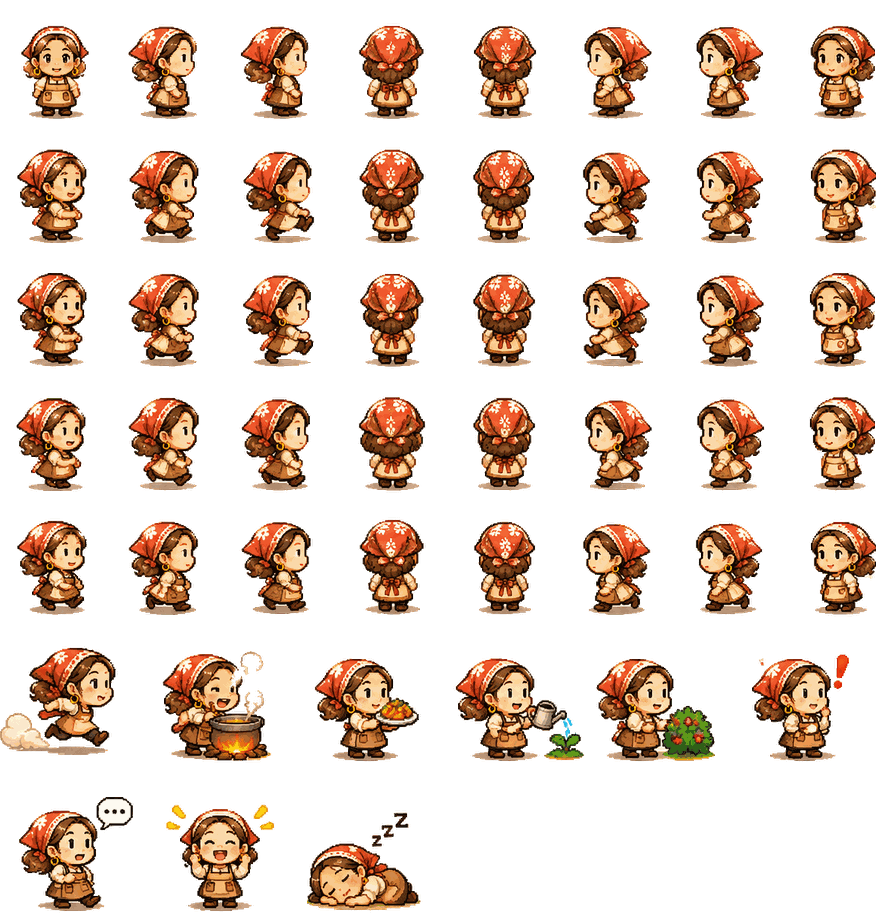
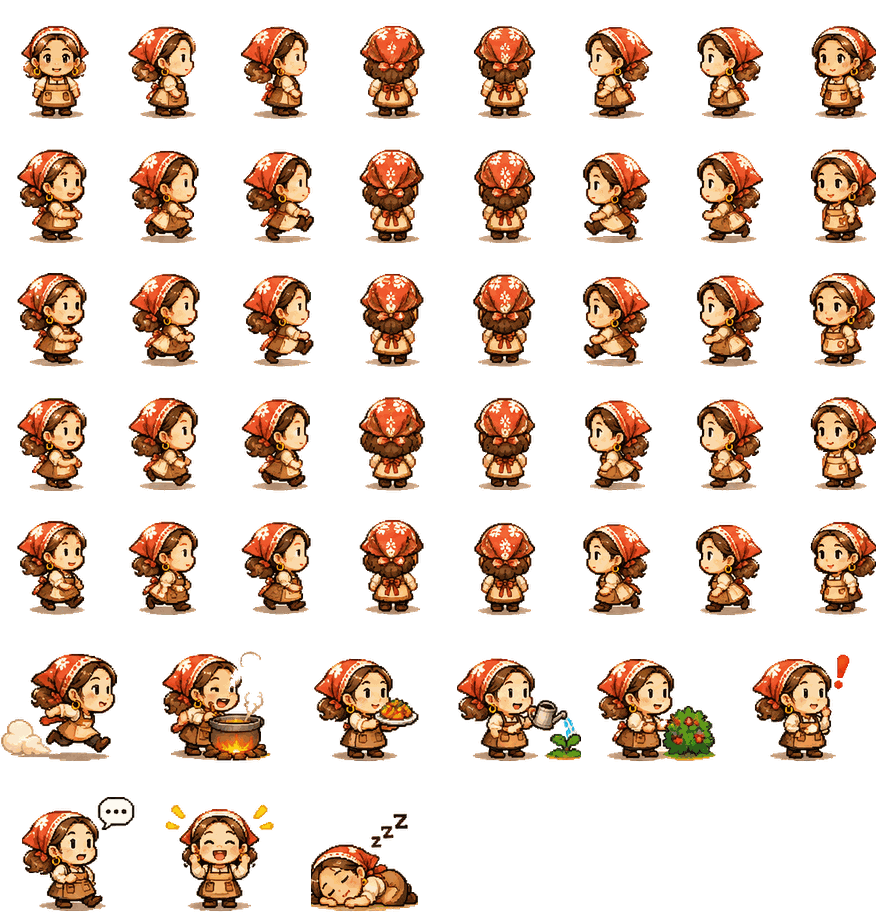
ゲーム: モンスター54種と図鑑、村人6人をドット絵スプライトに
- スライム・イノシシ・キノコ・ドラゴンコウモリは8方向とダメージ/攻撃/驚き
- 図鑑の54種を地域ごとに出現（強い種類はステージとレベルで解放、ボス級はまれ）
- 手帳にモンスター図鑑（倒すと登録、未発見はシルエット）
- ハナばあちゃん・カモメ船長・プクオフ・ハドフ・クズモショ・Archくんをスプライトに、離れているときは祈る/望遠鏡/読書/店番などのポーズ

Claude-Session: https://claude.ai/code/session_01SaHn9ks9dncxXxV33h9duz

diff --git a/game/index.html b/game/index.html
@@ -49,6 +49,7 @@ input,textarea,select{font-size:16px}
 #talk .hint{font-size:13px;color:#8a6a40}
 .sheet{position:fixed;left:0;right:0;bottom:0;max-height:86%;background:var(--paper);border-radius:22px 22px 0 0;padding:18px 16px max(18px,env(safe-area-inset-bottom));box-shadow:0 -8px 30px #0006;transform:translateY(105%);transition:transform .28s ease;overflow-y:auto;max-width:640px;margin:0 auto;z-index:4}
 .sheet.on{transform:none}
+.monbook{display:grid;grid-template-columns:repeat(auto-fill,minmax(66px,1fr));gap:6px;margin-top:6px}.monbook .mb{background:#fff8ea;border:1.5px solid #e2cfa8;border-radius:10px;padding:4px 2px 5px;text-align:center;font-size:10px;line-height:1.25}.monbook i{display:block;width:60px;height:60px;margin:0 auto;background:url(monbook.png?v=1) no-repeat;background-size:540px 360px}.monbook .un i{filter:brightness(0);opacity:.22}.monbook b{display:block;font-weight:700}.monbook small{color:#9a7a50}
 .sheet h2{margin:0 0 4px;font-size:22px;font-weight:900;padding-right:80px}
 .sheet h3{margin:16px 0 6px;font-size:17px}
 .sheet .sub{margin:0 0 12px;font-size:14px;color:#7a6248}
@@ -171,6 +172,7 @@ body.story #talk,body.story #actBtn,body.story #atkBtn,body.story #wpnBtn,body.s
   <h2>旅の手帳</h2>
   <p class="sub" id="stageLine"></p>
   <h3>思い出</h3><div id="storyList"></div>
+  <h3>モンスター図鑑 <span id="mbCount" style="font-size:13px"></span></h3><div id="monBook" class="monbook"></div>
   <h3>ふしぎ</h3><div id="pzList"></div>
   <h3>頼まれごと</h3><div id="questList"></div>
   <h3 id="bookCount"></h3>
@@ -312,7 +314,7 @@ const STORY_DEF=()=>({chapter:0,introSeen:0,firstMemorySeen:0,fourFiresExplained
 function fixStory(){S.story=Object.assign(STORY_DEF(),S.story||{});if(S.stage>=2&&!S.story.bridgeStorySeen){S.story.bridgeStorySeen=1;S.story.bridgeReady=1}}
 
 // ================= セーブ =================
-const DEF=()=>({story:STORY_DEF(),pz:{},lv:1,exp:0,kills:0,tre:{},srch:{},got:{},veh:{horse:0,boat:0},islandChest:0,bag:{},dishes:[],found:{},q:NPCS.map(()=>0),hp:6,max:6,fx:null,fxT:0,g:0,wood:0,weapons:[],stage:1,build:{house:0,farm:0,coop:0,flower:0},chest:0,oniDown:0,farmT:0,coopT:0,allDone:0});
+const DEF=()=>({story:STORY_DEF(),pz:{},mk:{},lv:1,exp:0,kills:0,tre:{},srch:{},got:{},veh:{horse:0,boat:0},islandChest:0,bag:{},dishes:[],found:{},q:NPCS.map(()=>0),hp:6,max:6,fx:null,fxT:0,g:0,wood:0,weapons:[],stage:1,build:{house:0,farm:0,coop:0,flower:0},chest:0,oniDown:0,farmT:0,coopT:0,allDone:0});
 let S=DEF();
 try{
  const s3=JSON.parse(localStorage.getItem('ren-cook3')||'null');
@@ -444,7 +446,7 @@ function spawnButa(x,y,summoned,kind){kind=kind||'buta';const k=EK[kind];E.push(
 function spawnOni(){if(!E.some(e=>e.type==='oni')){const lv=Math.min(2,S.oniLv||0),hp=[40,60,85][lv];E.push({type:'oni',lv,x:FORT.x,y:FORT.y+40,hp,max:hp,cd:2,fl:0,wind:0,sx:0,sy:0,summ:0,kx:0,ky:0,atk:0,dash:0,tc:2});if(lv)toast(`パパオニがもどってきた！（${lv+1}回目）`)}}
 let oniT=0;const EB=[];
 function butaOK(e,x,y){if(x<20||y<20||x>W-20||y>H-20)return false;const r=region(x,y);if(e.summoned)return r==='hot'||r==='plains'||ROAM2.includes(r);return (S.stage>=2?ROAM2:ROAM1).includes(r)&&!safeZone(x,y)&&!footBlocked(x,y)}
-function randButaSpot(){for(let i=0;i<40;i++){const a=Math.random()*6.28,d=420+Math.random()*420,x=P.x+Math.cos(a)*d,y=P.y+Math.sin(a)*d;if(butaOK({},x,y)){const r=region(x,y),q=Math.random();const wild=['plains','coast','beach','snow'].includes(r);const kind=wild?(q<.07?'oyabun':q<.42?'kuro':'buta'):(S.stage>=2&&q<.15?'kuro':'buta');return{x,y,kind}}}return null}
+function randButaSpot(){for(let i=0;i<40;i++){const a=Math.random()*6.28,d=420+Math.random()*420,x=P.x+Math.cos(a)*d,y=P.y+Math.sin(a)*d;if(butaOK({},x,y)){const r=region(x,y);return{x,y,kind:pickKind(r)}}}return null}
 
 // ================= プレイヤー =================
 const P={x:CAMP.x,y:CAMP.y+70,dir:1,face:'d',d8:0,_pd:1,smT:0,act:'',actT:0,lastMove:0,fx:1,fy:0,step:0,emote:'',emT:0,inv:0,flash:0,atkT:0,slash:0,slashT:.18};
@@ -932,7 +934,7 @@ const PR=[],TR=[],RG=[];
 function damageEnemy(e,dmg,kx,ky){
  const i=E.indexOf(e);if(i<0)return;
  e.hp-=dmg;e.fl=.3;for(let k=0;k<6;k++)emit(e.x,e.y-16,(Math.random()-.5)*140,-Math.random()*120,.35,k%2?'#ffd84a':'#ffffff',3,200);const oni=e.type==='oni';e.kx=kx*(oni?.25:1);e.ky=ky*(oni?.25:1);pop(e.x,e.y-40,'-'+dmg,'#fff');
- if(e.hp<=0){E.splice(i,1);S.kills=(S.kills||0)+1;talkKey='';if(oni){gainExp(60*((e.lv||0)+1));oniDefeated(e)}else{const K=EK[e.kind||'buta'];const n=1+Math.floor(Math.random()*2)+(K.crown?3:0);for(let j=0;j<n;j++)coins.push({x:e.x+(Math.random()-.5)*30*K.s,y:e.y+(Math.random()-.5)*20,v:K.coin[0]+Math.floor(Math.random()*K.coin[1])});pop(e.x,e.y-30,`+${K.exp}EXP`,'#ffd84a');gainExp(K.exp)}}
+ if(e.hp<=0){E.splice(i,1);S.kills=(S.kills||0)+1;talkKey='';if(oni){gainExp(60*((e.lv||0)+1));oniDefeated(e)}else{const K=EK[e.kind||'buta'];if(K.book!=null){S.mk=S.mk||{};const f=!S.mk[K.book];S.mk[K.book]=(S.mk[K.book]||0)+1;if(f)toast(`モンスター図鑑に「${K.n}」が登録された！`)}const n=1+Math.floor(Math.random()*2)+(K.crown?3:0);for(let j=0;j<n;j++)coins.push({x:e.x+(Math.random()-.5)*30*K.s,y:e.y+(Math.random()-.5)*20,v:K.coin[0]+Math.floor(Math.random()*K.coin[1])});pop(e.x,e.y-30,`+${K.exp}EXP`,'#ffd84a');gainExp(K.exp)}}
 }
 function hitArea(hx,hy,r,atk,fx,fy,kb){
  let hit=false;
@@ -1184,16 +1186,16 @@ const RFOLK={
  kuzu:{draw:'kuzu',n:'クズモショ',x:380,y:300,lines:['世界じゅうの品を あつめておる','ガラクタも だれかのお宝じゃ']},
  bukuoff:{draw:'pukuof',n:'プクオフ',x:320,y:330,lines:['本と地図は 旅の友だちだよ','「マップ」で 世界を見わたせるよ']}};
 function drawFolk(f){
- drawChar(f.draw,f.x,f.y,{dir:f.x<P.x?1:-1,st:0});
  const d=Math.hypot(f.x-P.x,f.y-P.y);
+ if(CSPR[f.draw]&&CSPR[f.draw].ok){const o={d8:d<140?d8To(P.x-f.x,P.y-f.y):0};if(CSPR[f.draw].idle&&d>=110){o.act=CSPR[f.draw].idle;o.dir=1}drawCSpr(f.draw,f.x,f.y,o)}else drawChar(f.draw,f.x,f.y,{dir:f.x<P.x?1:-1,st:0});
  if(d<120){cx.font='700 12px "Zen Maru Gothic",sans-serif';cx.textAlign='center';cx.fillStyle='#000a';cx.fillText(f.n,f.x+1,f.y+17);cx.fillStyle='#fff';cx.fillText(f.n,f.x,f.y+16)}
  if(d<95){const t=f.lines[Math.floor(time/3.5)%f.lines.length];cx.font='700 12px "Zen Maru Gothic",sans-serif';const tw=cx.measureText(t).width+18,by=f.y-78;cx.fillStyle='#fffaf0';cx.strokeStyle='#3a2a1c';cx.lineWidth=1.5;cx.beginPath();cx.roundRect(f.x-tw/2,by,tw,24,10);cx.fill();cx.stroke();cx.beginPath();cx.moveTo(f.x-5,by+24);cx.lineTo(f.x,by+31);cx.lineTo(f.x+5,by+24);cx.fill();cx.fillStyle='#3a2a1c';cx.fillText(t,f.x,by+16.5)}}
 const AK={x:0,y:0,dir:1,st:0,init:0};
 function updAK(dt){
  const tx=P.x-P.dir*26,ty=P.y+8,dx=tx-AK.x,dy=ty-AK.y,d=Math.hypot(dx,dy);
  if(!AK.init||d>320){AK.x=tx;AK.y=ty;AK.init=1;return}
- if(d>14){const sp=Math.min(d*4,280)*dt;AK.x+=dx/d*sp;AK.y+=dy/d*sp;AK.st+=dt*12;if(Math.abs(dx)>4)AK.dir=dx>0?1:-1}else AK.st=0}
-function akObj(objs){if(P.ride)return;objs.push({y:AK.y,f:()=>{fastShadow(AK.x+2,AK.y+1,8,3);drawChar('archkun',AK.x,AK.y,{dir:AK.dir,st:AK.st,wave:P.smT>0})}})}
+ if(d>14){const sp=Math.min(d*4,280)*dt;AK.x+=dx/d*sp;AK.y+=dy/d*sp;AK.st+=dt*12;AK.mv=1;AK.d8=d8To(dx,dy);if(Math.abs(dx)>4)AK.dir=dx>0?1:-1}else{AK.mv=0;AK.st=0;if(P.moving)AK.d8=d8To(P.x-AK.x,P.y-AK.y)}}
+function akObj(objs){if(P.ride)return;objs.push({y:AK.y,f:()=>{fastShadow(AK.x+2,AK.y+1,8,3);(CSPR.archkun.ok?drawCSpr('archkun',AK.x,AK.y,{d8:AK.d8==null?0:AK.d8,mv:AK.mv,st:AK.st,dir:AK.dir,act:P.smT>0?'joy':(rainPose()==='sleep'?'sleep':(!AK.mv&&time-(P.lastMove||0)>6?'search':null))}):drawChar('archkun',AK.x,AK.y,{dir:AK.dir,st:AK.st,wave:P.smT>0}))}})}
 // ================= 全体マップ =================
 let mapBase=null,mapBaseKey='';
 const MAPC={sea:'#5d9cc8',river:'#6eaedc',island:'#e8d8a0',snow:'#eef2f6',north:'#8ab86a',hot:'#b87a50',beach:'#ecd9a0',plains:'#b0cc74',forest:'#5e8e4c',coast:'#9cc27a',rock:'#a89a88',meadow:'#a2cf6c',field:'#90c46a'};
@@ -1341,7 +1343,13 @@ function rainPose(){
 const CSPR={
  michiru:{k:.56,act:{dash:0,cook:1,done:2,tool:3,pick:4,sur:5,think:6,joy:7,sleep:8}},
  mamanun:{k:.56,act:{dash:0,cook:1,done:2,tool:3,pick:4,sur:5,think:6,joy:7,sleep:8}},
- papaoni:{k:.6,act:{dash:0,power:1,think:2,sur:3,laugh:4,angry:5,joy:6,sleep:7}}};
+ papaoni:{k:.6,act:{dash:0,power:1,think:2,sur:3,laugh:4,angry:5,joy:6,sleep:7}},
+ captain:{k:.56,idle:'scope',act:{dash:0,point:1,think:2,sur:3,laugh:4,joy:5,scope:6,sleep:7}},
+ pukuof:{k:.56,idle:'read',act:{dash:0,read:1,think:2,sur:3,laugh:4,joy:5,map:6,sleep:7}},
+ archkun:{k:.55,act:{dash:0,jump:1,think:2,sur:3,laugh:4,joy:5,search:6,sleep:7}},
+ hadof:{k:.56,idle:'shop',act:{dash:0,shop:1,think:2,sur:3,laugh:4,joy:5,repair:6,sleep:7}},
+ kuzu:{k:.56,idle:'sell',act:{dash:0,sell:1,think:2,sur:3,laugh:4,joy:5,odoroku:6,sleep:7}},
+ granny:{k:.58,idle:'pray',act:{dash:0,talk:1,think:2,sur:3,laugh:4,joy:5,pray:6,sleep:7}}};
 for(const k in CSPR){const c=CSPR[k];c.img=new Image();c.img.onload=()=>{c.ok=true};c.img.src='spr_'+k+'.png?v=1'}
 function d8To(dx,dy){const k=((Math.round(Math.atan2(dy,dx)/(Math.PI/4))%8)+8)%8;return RSP.oct[k]}
 function drawCSpr(type,x,y,o){
@@ -1364,10 +1372,34 @@ function updNPCs(dt){
   if(n.room){n.rx=nx;n.ry=ny}else{n.x=nx;n.y=ny}w.mv=1;w.st+=dt*9;w.d8=d8To(dx,dy)}}
 function drawNPC(n,i){
  const x=npcX(n),y=npcY(n),pd=Math.hypot(x-P.x,y-P.y),w=n._w;
- if(CSPR[n.draw]&&CSPR[n.draw].ok){const o={st:w?w.st:0,mv:w&&w.mv};o.d8=o.mv?w.d8:(pd<140?d8To(P.x-x,P.y-y):0);drawCSpr(n.draw,x,y,o)}
+ if(CSPR[n.draw]&&CSPR[n.draw].ok){const o={st:w?w.st:0,mv:w&&w.mv};o.d8=o.mv?w.d8:(pd<140?d8To(P.x-x,P.y-y):0);const ia=CSPR[n.draw].idle;if(ia&&!o.mv&&pd>=140&&(time+i*3)%9<6){o.act=ia;o.dir=1}drawCSpr(n.draw,x,y,o)}
  else drawChar(n.draw,x,y,{dir:x<P.x?1:-1,st:0});
  if(S.q[i]<n.qs.length){const by=Math.sin(time*4)*3;cx.fillStyle='#ffd84a';circ(cx,x,y-66+by,10);cx.fill();cx.fillStyle='#6a4a00';cx.font='900 14px sans-serif';cx.textAlign='center';cx.fillText('!',x,y-61+by)}
  if(pd<120){cx.font='700 12px "Zen Maru Gothic",sans-serif';cx.textAlign='center';cx.fillStyle='#000a';cx.fillText(n.n,x+1,y+17);cx.fillStyle='#fff';cx.fillText(n.n,x,y+16)}}
+// ================= モンスター =================
+const BOOK=['スライム','イノシシ','キノコ','ドラゴンコウモリ','ウサギン','トゲリス','プヨゼリー','ハナムシ','ツノービー','ミミカル','ロックン','モグラドン','フラワン','リーファ','ヒツジール','カニッコ','タコポン','サンシェル','アイスライム','ファイアスライム','サンダースライム','ゴースライム','メタルスライム','ウッドゴーレム','ストーンゴーレム','アイアンゴーレム','マグマゴーレム','ミズドラゴン','フレイムドラゴン','グリーンドラゴン','アイスドラゴン','エレキドラゴン','スカルナイト','ゴブリン','オーク','オニゴブリン','ムーンウルフ','サンドワーム','バジリスク','ミミック','トレント','ウィスプ','カボチャナイト','ノーム','フェアリー','クラーケン','ワイバーン','グリフォン','ユキオロチ','フェニックス','ダークドラゴン','キングスライム','リッチ','古のドラゴン'];
+const MONIMG=new Image(),BOOKIMG=new Image();let MON_OK=false,BOOK_OK=false;MONIMG.onload=()=>MON_OK=true;BOOKIMG.onload=()=>BOOK_OK=true;MONIMG.src='monsters.png?v=1';BOOKIMG.src='monbook.png?v=1';
+{const T={1:{hp:3,spd:80,dmg:1,exp:3,s:.9,coin:[3,4]},2:{hp:6,spd:90,dmg:1,exp:6,s:1,coin:[6,6]},3:{hp:12,spd:85,dmg:2,exp:12,s:1.15,coin:[10,10]},4:{hp:30,spd:75,dmg:3,exp:40,s:1.55,coin:[30,20]}};
+ const tier=i=>[45,46,47,48,49,50,51,52,53].includes(i)?4:[23,24,25,26,27,28,29,30,31,32,34,35,38,39,40,42].includes(i)?3:[10,18,19,20,21,33,36,37,41,43,44].includes(i)?2:1;
+ Object.assign(EK,{slime:{n:'スライム',hp:2,spd:70,dmg:1,exp:2,s:1,coin:[3,4],mon:0,book:0,tier:1},boar:{n:'イノシシ',hp:5,spd:115,dmg:2,exp:5,s:1,coin:[5,5],mon:1,book:1,tier:2},kinoko:{n:'キノコ',hp:3,spd:60,dmg:1,exp:3,s:1,coin:[3,4],mon:2,book:2,tier:1},dbat:{n:'ドラゴンコウモリ',hp:6,spd:120,dmg:2,exp:7,s:1,coin:[6,6],mon:3,book:3,tier:2}});
+ for(let i=4;i<BOOK.length;i++){const t=tier(i);EK['m'+i]=Object.assign({n:BOOK[i],icon:i,book:i,tier:t},T[t])}
+ Object.assign(EK.m22,{hp:3,spd:170,exp:50,coin:[25,10],flee:1})}
+const MSPAWN={field:['slime','slime','kinoko','m4','buta','buta','boar','m22','m51'],meadow:['slime','m7','m12','m8','m14','buta','m44','m22'],forest:['kinoko','m5','m13','m9','dbat','m23','m40','m41','buta'],rock:['m10','m11','m24','m33','m43','buta','kuro'],
+ plains:['boar','m14','m36','m34','m37','kuro','oyabun','m47','m46'],coast:['m15','m16','m6','m17','buta','kuro'],beach:['m15','m16','m17','m6','m45'],north:['m33','m35','m32','m42','m25','m38','m20','kuro','dbat','m50','m52'],
+ snow:['m18','m30','m21','m48','m53'],hot:['m19','m26','m28','m31','m49'],island:['m44','m39','m27'],river:['slime'],meadow2:[]};
+function pickKind(r){const L=MSPAWN[r]||MSPAWN.field;for(let t=0;t<6;t++){const k=L[Math.floor(Math.random()*L.length)],K=EK[k];if(K.tier===4&&(Math.random()>.18||S.stage<2||S.lv<6))continue;if(K.tier===3&&S.stage<2&&S.lv<5)continue;if(k==='m22'&&Math.random()>.25)continue;return k}return L[0]}
+function drawMon(e,K){
+ const s=K.s,mv=e._mv,b=mv?Math.abs(Math.sin(time*9+e.a))*3:Math.sin(time*2+e.a)*.6;
+ if(e.fl>0&&Math.floor(time*24)%2)cx.globalAlpha=.45;
+ if(K.mon!=null&&MON_OK){const d=Math.hypot(P.x-e.x,P.y-e.y);let col=e._d8!=null?e._d8:0;
+  if(e.fl>0)col=8;else if(d<26*s+20&&!room)col=9;else if(e._sur>0)col=10;
+  const k=.5*s,sq=K.mon===0?1+Math.sin(time*10+e.a)*.07:1;cx.drawImage(MONIMG,col*112,K.mon*112,112,112,e.x-56*k*sq,e.y-104*k/sq-(K.mon===3?6+Math.sin(time*12+e.a)*3:b*(K.mon===0?.3:1)),112*k*sq,112*k/sq)}
+ else if(K.icon!=null&&BOOK_OK){const i=K.icon,k=.46*s,c=i%9,r=(i/9)|0;cx.save();cx.translate(e.x,e.y-b);if(e._vx>2)cx.scale(-1,1);cx.drawImage(BOOKIMG,c*100,r*100,100,100,-50*k,-96*k,100*k,100*k);cx.restore()}
+ cx.globalAlpha=1}
+function drawMonBook(){
+ const box=$('monBook');if(!box)return;S.mk=S.mk||{};let n=0,h='';
+ BOOK.forEach((nm,i)=>{const c=S.mk[i]||0;if(c)n++;const x=(i%9)*60,y=((i/9)|0)*60;h+=`<div class="mb${c?'':' un'}"><i style="background-position:-${x}px -${y}px"></i><b>${c?nm:'？？？'}</b>${c?`<small>×${c}</small>`:''}</div>`});
+ box.innerHTML=h;$('mbCount').textContent=`${n} / ${BOOK.length}`}
 function drawBoy(){
  if(P.ride==='horse'){drawHorse(cx,P.x,P.y+14,P.dir,P.step,P.moving);cx.save();cx.translate(0,-18)}
  else if(P.ride==='boat'){cx.fillStyle='rgba(10,40,70,.32)';cx.beginPath();cx.ellipse(P.x+5,P.y+18,34,9,0,0,7);cx.fill();drawBoat(cx,P.x,P.y+10+Math.sin(time*3)*1.5,P.dir);cx.save();cx.translate(0,-2)}
@@ -1489,8 +1521,8 @@ function draw(){
    if(e.type==='oni'&&e.wind>0){if(e.wt==='dash'){cx.strokeStyle='rgba(255,40,40,.6)';cx.lineWidth=26;cx.lineCap='round';cx.beginPath();cx.moveTo(e.x,e.y);cx.lineTo(e.x+(e.sx-e.x)*1.4,e.y+(e.sy-e.y)*1.4);cx.stroke()}else{cx.fillStyle=`rgba(255,40,40,${.3+Math.sin(time*20)*.15})`;circ(cx,e.sx,e.sy,74);cx.fill()}}
    if(e.type==='oni'&&e.lv){cx.fillStyle=`rgba(255,${e.lv>1?40:120},40,${.18+Math.sin(time*6)*.08})`;circ(cx,e.x,e.y-40,60+e.lv*8);cx.fill()}
    if(e.type==='oni'){e._mv=Math.hypot(e.x-(e._px??e.x),e.y-(e._py??e.y))>.15;e._px=e.x;e._py=e.y;e._st=(e._st||0)+(e._mv?.2:0)}
-   drawChar(e.type==='oni'?'papaoni':'buta',e.x,e.y,{d8:e.type==='oni'?d8To(P.x-e.x,P.y-e.y):null,mv:e._mv,dir:e.x<P.x?1:-1,st:e.type==='oni'?e._st:time*10,fl:e.fl,col:e.type==='buta'?EK[e.kind||'buta'].col:0,crown:e.type==='buta'&&EK[e.kind||'buta'].crown,s:e.type==='oni'?1.8+(e.lv||0)*.18:EK[e.kind||'buta'].s,atk:e.wind>0||e.dash>0?1:0});
-   if(e.type==='buta'&&e.hp<e.max){const yy=e.y-38*EK[e.kind||'buta'].s;cx.fillStyle='#0008';cx.fillRect(e.x-14,yy,28,4);cx.fillStyle='#ff5a5a';cx.fillRect(e.x-14,yy,28*e.hp/e.max,4)}}}));
+   if(e.type==='buta'&&(EK[e.kind].mon!=null||EK[e.kind].icon!=null))drawMon(e,EK[e.kind]);else drawChar(e.type==='oni'?'papaoni':'buta',e.x,e.y,{d8:e.type==='oni'?d8To(P.x-e.x,P.y-e.y):null,mv:e._mv,dir:e.x<P.x?1:-1,st:e.type==='oni'?e._st:time*10,fl:e.fl,col:e.type==='buta'?EK[e.kind||'buta'].col:0,crown:e.type==='buta'&&EK[e.kind||'buta'].crown,s:e.type==='oni'?1.8+(e.lv||0)*.18:EK[e.kind||'buta'].s,atk:e.wind>0||e.dash>0?1:0});
+   if(e.type==='buta'&&e.hp<e.max){const yy=e.y-(EK[e.kind||'buta'].icon!=null?48:38)*EK[e.kind||'buta'].s;cx.fillStyle='#0008';cx.fillRect(e.x-14,yy,28,4);cx.fillStyle='#ff5a5a';cx.fillRect(e.x-14,yy,28*e.hp/e.max,4)}}}));
  palms.forEach(t=>inView(t.x,t.y,60)&&objs.push({y:t.y,f:()=>drawPalm(t)}));
  drawPuzzles(objs);PRE.forEach(o=>objs.push(o));drawStoryWorld(objs);
  objs.push({y:P.y+12,f:drawBoy});
@@ -1575,6 +1607,8 @@ function updateEnemies(dt){
   e.x+=e.kx*dt;e.y+=e.ky*dt;e.kx*=.86;e.ky*=.86;
   if(e.type==='buta'){
    const K=EK[e.kind||'buta'];let vx,vy;if(d<260&&!room&&P.ride!=='boat'){vx=dx/d*K.spd;vy=dy/d*K.spd}else{e.t-=dt;if(e.t<=0){e.t=1.5+Math.random()*2;e.a=Math.random()*6.3}vx=Math.cos(e.a)*35;vy=Math.sin(e.a)*35}
+   if(K.flee&&d<260){vx=-vx;vy=-vy}
+   if(d<260&&!e._seen){e._seen=1;e._sur=.6}if(d>=320)e._seen=0;if(e._sur>0)e._sur-=dt;e._mv=Math.hypot(vx,vy)>5;e._vx=vx;if(e._mv)e._d8=d8To(vx,vy);
    const nx=e.x+vx*dt,ny=e.y+vy*dt;if(butaOK(e,nx,ny)){e.x=nx;e.y=ny}else e.a+=Math.PI;
    if(!butaOK(e,e.x,e.y)){e.x-=e.kx*dt*2;e.y-=e.ky*dt*2}
    if(d<22*K.s&&!room){hurt(K.dmg);tryMove(dx/d*26,dy/d*26)}
@@ -1663,7 +1697,7 @@ const anyOpen=()=>sheets.some(s=>$(s).classList.contains('on'))||!!document.quer
 function open(id){sheets.forEach(s=>$(s).classList.toggle('on',s===id));stick.id=null;render()}
 function closeAll(){resetZoom();sheets.forEach(s=>$(s).classList.remove('on'));talkKey='';last=performance.now()}
 document.querySelectorAll('[data-close]').forEach(b=>b.onclick=closeAll);
-$('bagBtn').onclick=()=>{au();open('bagSheet')};$('bookBtn').onclick=()=>{au();open('bookSheet')};$('mapBtn').onclick=()=>{au();open('mapSheet');requestAnimationFrame(drawMapSheet)};
+$('bagBtn').onclick=()=>{au();open('bagSheet')};$('bookBtn').onclick=()=>{au();open('bookSheet');drawMonBook()};$('mapBtn').onclick=()=>{au();open('mapSheet');requestAnimationFrame(drawMapSheet)};
 $('atkBtn').addEventListener('pointerdown',e=>{e.preventDefault();attack()});
 $('wpnBtn').addEventListener('pointerdown',e=>{e.preventDefault();au();const own=WEAPONS.filter(x=>S.weapons.includes(x.id));if(own.length<2){toast(own.length?'武器はひとつだけ':'武器がない');return}const i=own.findIndex(x=>x.id===S.eq);S.eq=own[(i+1)%own.length].id;sfx.pick();toast(weapon().n+' に持ちかえた');save()});
 $('rideBtn').addEventListener('pointerdown',e=>{e.preventDefault();au();if(storyEventActive)return;const a=rideAction();if(a&&!paused&&!anyOpen())a.f()});
